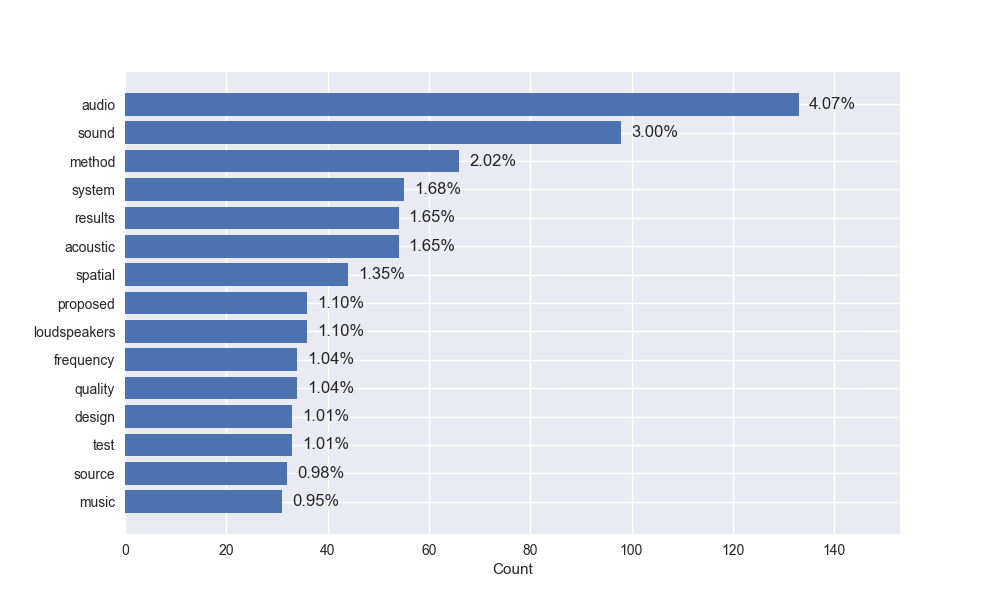
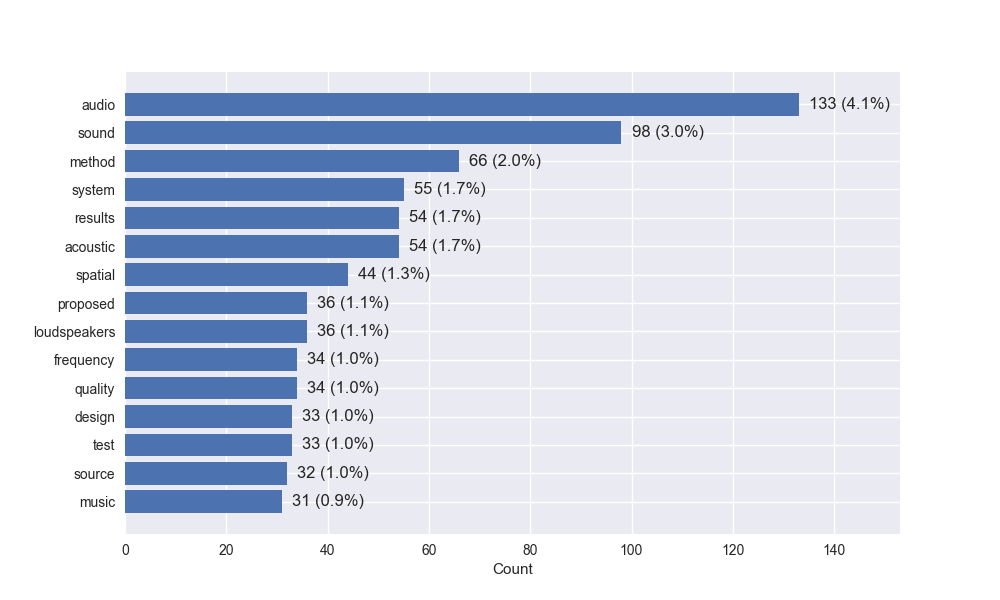
adding code to construct the final readme file - finalized plots

diff --git a/plot.py b/plot.py
@@ -16,10 +16,10 @@ def plot_presenter_data(statistics, top_limit=10):
     plt.barh(x_pos, cnt[::-1], align='center')
     plt.yticks(x_pos, names[::-1]) 
     plt.xlabel('Count')
-    ax.set_xlim(0, 12)
+    ax.set_xlim(0, 14)
 
     for i, v in enumerate(cnt[::-1]):
-        ax.text(v + 0.125, i, "{:0.01f}%".format((v*100)/statistics['presenters']), va='center')
+        ax.text(v + 0.125, i, "{0:0d} ({1:0.01f}%)".format(v, (v*100)/statistics['presenters']), va='center')
 
     fig.subplots_adjust(left=0.3)
     plt.savefig("img/presenter_names.png")
@@ -33,10 +33,10 @@ def plot_presenter_data(statistics, top_limit=10):
     plt.barh(x_pos, cnt[::-1], align='center')
     plt.yticks(x_pos, locations[::-1]) 
     plt.xlabel('Count')
-    ax.set_xlim(0, 36)
+    ax.set_xlim(0, 39)
 
     for i, v in enumerate(cnt[::-1]):
-        ax.text(v + 0.25, i, "{:0.01f}%".format((v*100)/statistics['presenters']), va='center')
+        ax.text(v + 0.25, i, "{0:0d} ({1:0.01f}%)".format(v, (v*100)/statistics['presenters']), va='center')
 
     fig.subplots_adjust(left=0.3)
     plt.savefig("img/presenter_locations.png")
@@ -50,10 +50,10 @@ def plot_presenter_data(statistics, top_limit=10):
     plt.barh(x_pos, cnt[::-1], align='center')
     plt.yticks(x_pos, countries[::-1]) 
     plt.xlabel('Count')
-    ax.set_xlim(0, 275)
+    ax.set_xlim(0, 285)
 
     for i, v in enumerate(cnt[::-1]):
-        ax.text(v + 1, i, "{:0.01f}%".format((v*100)/statistics['presenters']), va='center')
+        ax.text(v + 1, i, "{0:0d} ({1:0.01f}%)".format(v, (v*100)/statistics['presenters']), va='center')
 
     fig.subplots_adjust(left=0.1)
     plt.savefig("img/presenter_countries.png")
@@ -74,8 +74,7 @@ def plot_paper_data(statistics, top_limit=10):
     ax.set_xlim(0, cnt[0]+1)
 
     for i, v in enumerate(cnt[::-1]):
-        ax.text(v + 0.125, i, "{0:0.01f}%".format((v*100)/statistics['papers']), va='center')
-        #ax.text(v - 0.25, i, "{0:0d}".format(v), color='white', va='center')
+        ax.text(v + 0.125, i, "{0:0d} ({1:0.01f}%)".format(v, (v*100)/statistics['papers']), va='center')
 
     fig.subplots_adjust(left=0.2)
     plt.savefig("img/paper_authors.png")
@@ -92,8 +91,7 @@ def plot_paper_data(statistics, top_limit=10):
     ax.set_xlim(0, cnt[0]+6)
 
     for i, v in enumerate(cnt[::-1]):
-        ax.text(v + 0.5, i, "{0:0.01f}%".format((v*100)/statistics['papers']), va='center')
-        #ax.text(v - 1.25, i, "{0:0d}".format(v), color='white', va='center')
+        ax.text(v + 0.5, i, "{0:0d} ({1:0.01f}%)".format(v, (v*100)/statistics['papers']), va='center')
 
     fig.subplots_adjust(left=0.3)
     plt.savefig("img/paper_subjects.png")
@@ -110,8 +108,7 @@ def plot_paper_data(statistics, top_limit=10):
     ax.set_xlim(0, cnt[0]+20)
 
     for i, v in enumerate(cnt[::-1]):
-        ax.text(v + 2.0, i, "{0:0.02f}%".format((v*100)/len(statistics['words'])), va='center')
-        #ax.text(v - 4.5, i, "{0:0d}".format(v), color='white', va='center')
+        ax.text(v + 2.0, i,  "{0:0d} ({1:0.01f}%)".format(v, (v*100)/len(statistics['words'])), va='center')
 
     plt.savefig("img/abstract_words.png")
 
@@ -124,11 +121,10 @@ def plot_paper_data(statistics, top_limit=10):
     plt.barh(x_pos, cnt[::-1], align='center')
     plt.yticks(x_pos, affs[::-1]) 
     plt.xlabel('Count')
-    ax.set_xlim(0, cnt[0]+1)
+    ax.set_xlim(0, cnt[0]+2)
 
     for i, v in enumerate(cnt[::-1]):
-        ax.text(v + 0.125, i, "{0:0.01f}%".format((v*100)/statistics['papers']), va='center')
-        #ax.text(v - 0.25, i, "{0:0d}".format(v), color='white', va='center')
+        ax.text(v + 0.125, i, "{0:0d} ({1:0.01f}%)".format(v, (v*100)/statistics['papers']), va='center')
 
     fig.subplots_adjust(left=0.4)
     plt.savefig("img/paper_affiliations.png")

diff --git a/readme.py b/readme.py
@@ -1,0 +1,76 @@
+import textwrap
+
+def format_paper_data(stats):
+
+	papers_text = """
+	## Papers
+	This section outlines statistics related to papers accepted to the confenerce. This includes papers that are presented in the form of talks as well as posters. 
+
+	Total number of accepted papers: {0:0d}<br/>
+	Total number of affiliations: {1:0d}<br/>
+	Total number of subjects: {2:0d}<br/>
+	Total number of unqiue abstract words: {3:0d}<br/>
+
+	### Top Authors
+
+	![authors](img/paper_authors.png) 
+
+	### Top Affiliations
+	![affiliations](img/paper_affiliations.png) 
+
+	### Top Subjects
+
+	![subjects](img/paper_subjects.png) 
+
+	### Top Abstract Words
+
+	![authors](img/abstract_words.png) 
+	""".format(stats['papers'], len(stats['affiliations']),
+			   len(stats['subjects']), len(stats['words']))
+
+	with open("markdown/papers.md", "w") as papers_fp:
+		papers_fp.write(textwrap.dedent(papers_text))
+
+def format_presenter_data(stats):
+	presenters_text = """
+	## Presenters
+	Total number of presenters: {0:0d}<br/>
+	Total number of affiliations:  {1:0d}<br/>
+	Total number of cities: {2:0d}<br/>
+	Total number of countries: {3:0d}<br/>
+
+	### Top Affiliations
+
+	![names](img/presenter_names.png) 
+
+	### Top Cities
+
+	![locations](img/presenter_locations.png)
+
+	### Top Countries
+
+	![countries](img/presenter_countries.png)
+
+	## Disclaimer
+	These statistics are only estimates. Formatting discrepancies in the scrapped data may skew some of these metrics.  
+
+	""".format(stats['presenters'], len(stats['names']),
+			   len(stats['locations']), len(stats['countries']))
+	
+	with open("markdown/presenters.md", "w") as presenters_fp:
+		presenters_fp.write(textwrap.dedent(presenters_text))
+
+def compile_readme():
+	# load markdown source files
+	with open("markdown/intro.md", "r") as intro_fp:
+		intro = intro_fp.read()
+	with open("markdown/papers.md", "r") as papers_fp:
+		papers = papers_fp.read()
+	with open("markdown/presenters.md", "r") as presenters_fp:
+		presenters = presenters_fp.read()
+
+	# load README.md file
+	with open("README.md", "w") as readme_fp:
+		readme_fp.write(intro)
+		readme_fp.write(papers)
+		readme_fp.write(presenters)

diff --git a/main.py b/main.py
@@ -1,6 +1,6 @@
 import argparse
-
 import analyze
+import readme
 import parse
 import clean
 import plot
@@ -20,8 +20,11 @@ if __name__ == '__main__':
         analyze.generate_csv(presenters, "data/presenters.csv")
         stats = analyze.analyze_presenters(presenters)
         plot.plot_presenter_data(stats, top_limit=15)
+        readme.format_presenter_data(stats)
     if args.papers:	
         papers = parse.parse_papers_list(args.papers)
         analyze.generate_csv(papers, "data/papers.csv")
         stats = analyze.analyze_papers(papers)
         plot.plot_paper_data(stats, top_limit=15)
+        readme.format_paper_data(stats)
+    readme.compile_readme()

diff --git a/README.md b/README.md
@@ -1,16 +1,48 @@
-# aes-presenters-145th
-Analysis of presenters at the 145th AES Convention October 17-21, 2018 - New York, New York
+# 145th AES Convention Stats
+Analysis and statistics of accpeted papers and presenters at the 145th AES Convention October 17-21, 2018 - New York, New York
 
-## Summary
+The statistics from the accepted papers comes from the [table of contents page](http://www.aes.org/publications/conventions/?num=145). The presenenters statistics are more general with respect to the convention program and covers talks and events outside of the technical/academic program. It is based upon the [presenter list](http://www.aes.org/events/145/presenters/) on the convetion website.
+## Papers
+This section outlines statistics related to papers accepted to the confenerce. This includes papers that are presented in the form of talks as well as posters. 
 
-## Top Affiliations
+Total number of accepted papers: 142<br/>
+Total number of affiliations: 140<br/>
+Total number of subjects: 11<br/>
+Total number of unqiue abstract words: 3270<br/>
 
-![names](img/names.png)
+### Top Authors
 
-## Top Cities
+![authors](img/paper_authors.png) 
 
-![locations](img/locations.png)
+### Top Affiliations
+![affiliations](img/paper_affiliations.png) 
 
-## Top Countries
+### Top Subjects
 
-![countries](img/countries.png)
+![subjects](img/paper_subjects.png) 
+
+### Top Abstract Words
+
+![authors](img/abstract_words.png) 
+
+## Presenters
+Total number of presenters: 651<br/>
+Total number of affiliations:  423<br/>
+Total number of cities: 260<br/>
+Total number of countries: 57<br/>
+
+### Top Affiliations
+
+![names](img/presenter_names.png) 
+
+### Top Cities
+
+![locations](img/presenter_locations.png)
+
+### Top Countries
+
+![countries](img/presenter_countries.png)
+
+## Disclaimer
+These statistics are only estimates. Formatting discrepancies in the scrapped data may skew some of these metrics.  
+

diff --git a/markdown/papers.md b/markdown/papers.md
@@ -1,0 +1,23 @@
+
+## Papers
+This section outlines statistics related to papers accepted to the confenerce. This includes papers that are presented in the form of talks as well as posters. 
+
+Total number of accepted papers: 142<br/>
+Total number of affiliations: 140<br/>
+Total number of subjects: 11<br/>
+Total number of unqiue abstract words: 3270<br/>
+
+### Top Authors
+
+![authors](img/paper_authors.png) 
+
+### Top Affiliations
+![affiliations](img/paper_affiliations.png) 
+
+### Top Subjects
+
+![subjects](img/paper_subjects.png) 
+
+### Top Abstract Words
+
+![authors](img/abstract_words.png) 

diff --git a/markdown/intro.md b/markdown/intro.md
@@ -1,0 +1,4 @@
+# 145th AES Convention Stats
+Analysis and statistics of accpeted papers and presenters at the 145th AES Convention October 17-21, 2018 - New York, New York
+
+The statistics from the accepted papers comes from the [table of contents page](http://www.aes.org/publications/conventions/?num=145). The presenenters statistics are more general with respect to the convention program and covers talks and events outside of the technical/academic program. It is based upon the [presenter list](http://www.aes.org/events/145/presenters/) on the convention website.

diff --git a/markdown/presenters.md b/markdown/presenters.md
@@ -1,0 +1,22 @@
+
+## Presenters
+Total number of presenters: 651<br/>
+Total number of affiliations:  423<br/>
+Total number of cities: 260<br/>
+Total number of countries: 57<br/>
+
+### Top Affiliations
+
+![names](img/presenter_names.png) 
+
+### Top Cities
+
+![locations](img/presenter_locations.png)
+
+### Top Countries
+
+![countries](img/presenter_countries.png)
+
+## Disclaimer
+These statistics are only estimates. Formatting discrepancies in the scrapped data may skew some of these metrics.  
+
